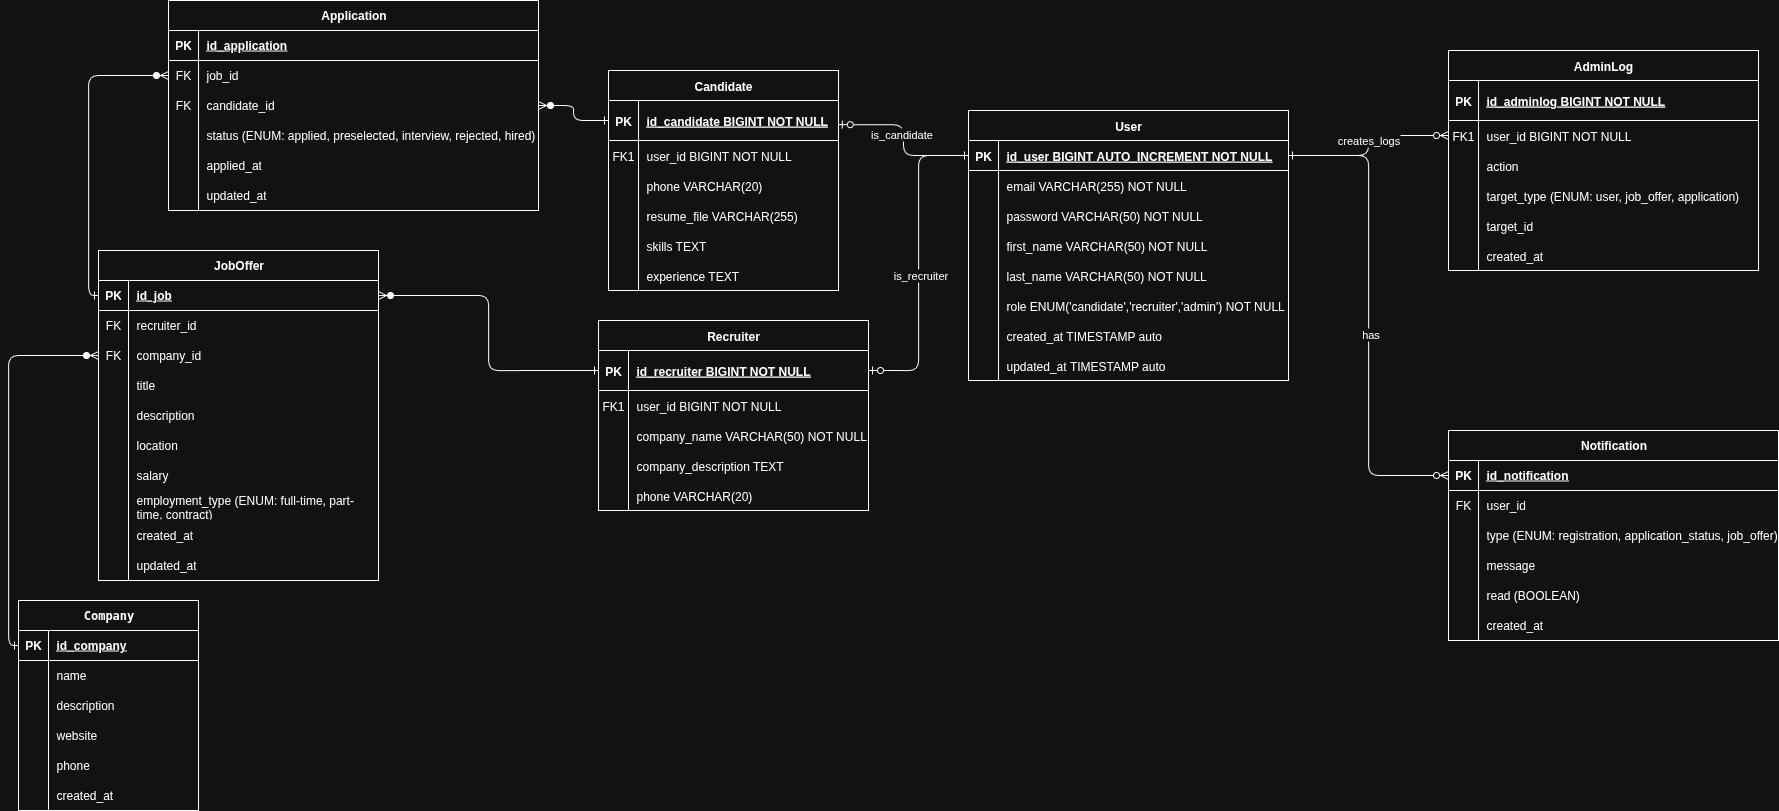
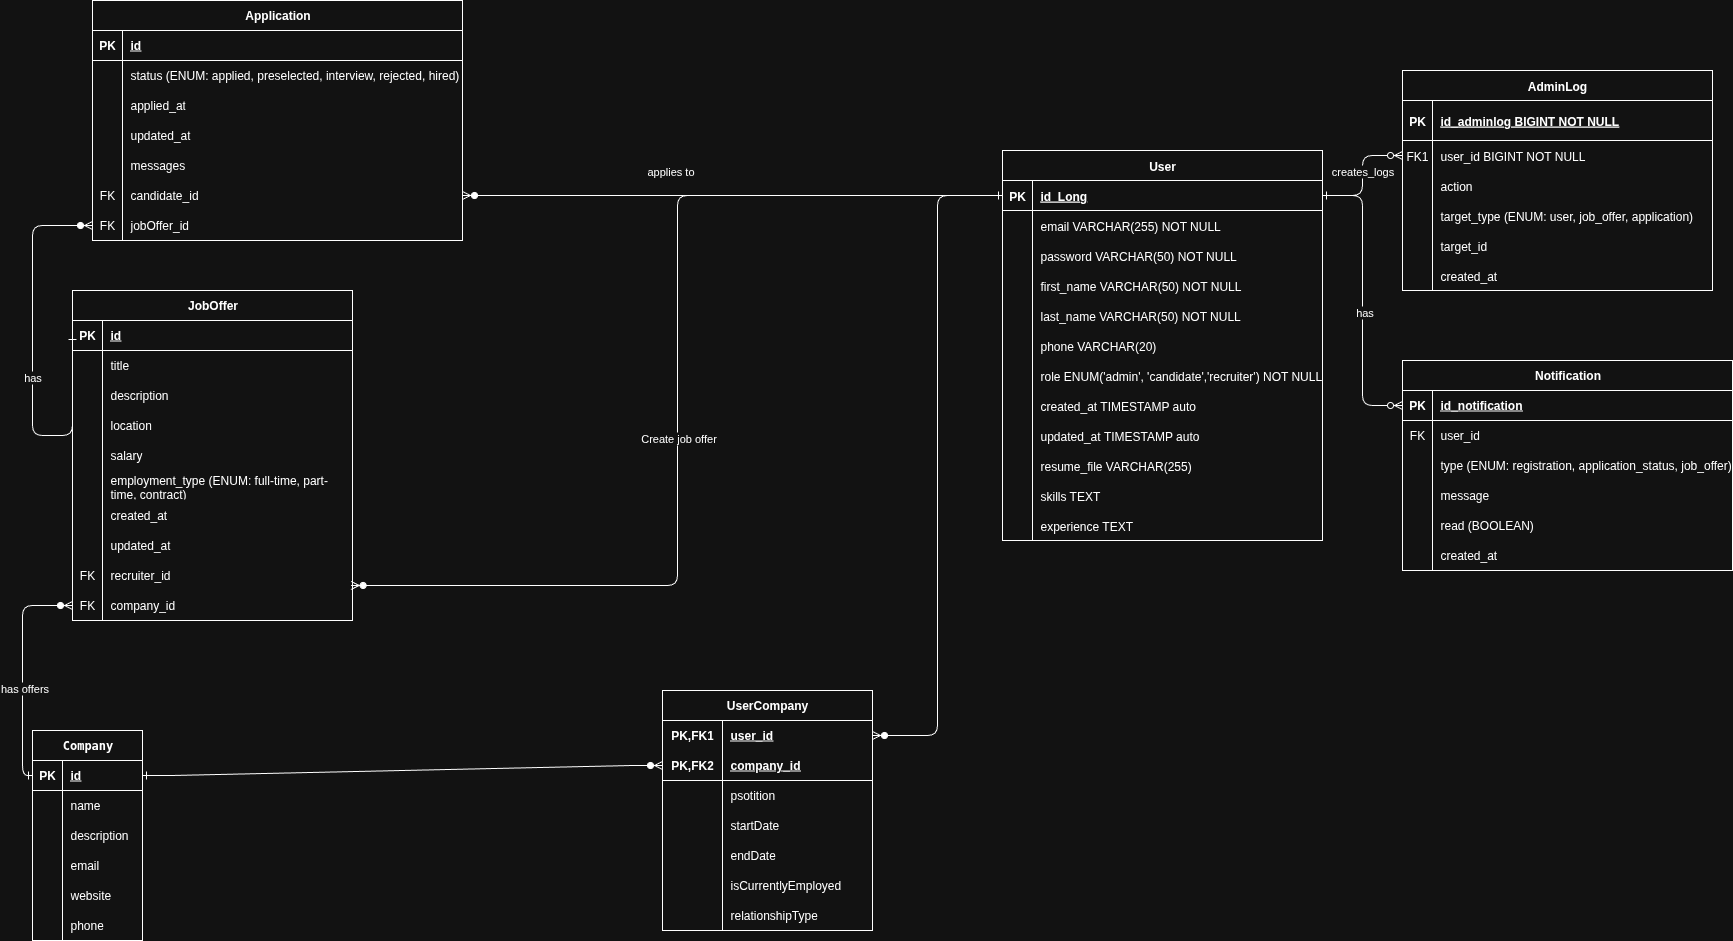
feat: add AdminLog and Notification entities with user relationships
- Create AdminLog entity for tracking administrative actions
- Create Notification entity for user notifications
- Establish proper ManyToOne relationships with User entity
- Add comprehensive English comments for JPA relationships

diff --git a/src/main/java/com/hackathon/recruiting_app_backend/model/AdminLog.java b/src/main/java/com/hackathon/recruiting_app_backend/model/AdminLog.java
@@ -1,0 +1,25 @@
+package com.hackathon.recruiting_app_backend.model;
+
+import jakarta.persistence.*;
+import org.hibernate.annotations.CreationTimestamp;
+
+import java.time.LocalDateTime;
+
+@Entity
+@Table(name = "admin_logs")
+public class AdminLog {
+    @Id
+    @GeneratedValue(strategy = GenerationType.IDENTITY)
+    private Long id;
+
+    @ManyToOne
+    @JoinColumn(name = "user_id") // Admin who performed the action
+    private User admin;  // Each admin log entry is associated with one admin user who perf
+
+    private String action; // CREATE_USER, DELETE_JOB_OFFER, etc.
+    private String targetType; // USER, COMPANY, JOB_OFFER
+    private Long targetId; // ID del recurso afectado
+
+    @CreationTimestamp
+    private LocalDateTime createdAt;
+}

diff --git a/src/main/java/com/hackathon/recruiting_app_backend/model/Notification.java b/src/main/java/com/hackathon/recruiting_app_backend/model/Notification.java
@@ -1,4 +1,25 @@
 package com.hackathon.recruiting_app_backend.model;
 
+import jakarta.persistence.*;
+import org.hibernate.annotations.CreationTimestamp;
+
+import java.time.LocalDateTime;
+
+@Entity
+@Table(name = "notifications")
 public class Notification {
+    @Id
+    @GeneratedValue(strategy = GenerationType.IDENTITY)
+    private Long id;
+
+    @ManyToOne
+    @JoinColumn(name = "user_id") // Target user
+    private User user; // Each notification belongs to one recipient user
+
+    private String title;
+    private String message;
+    private boolean isRead;
+
+    @CreationTimestamp
+    private LocalDateTime createdAt;
 }

diff --git a/src/main/java/com/hackathon/recruiting_app_backend/model/User.java b/src/main/java/com/hackathon/recruiting_app_backend/model/User.java
@@ -16,13 +16,14 @@ import java.util.List;
 
 @Entity
 @Table(name = "users")
-@Inheritance(strategy = InheritanceType.JOINED)
-@DiscriminatorColumn(name = "user_type", discriminatorType = DiscriminatorType.STRING)
+//@Inheritance(strategy = InheritanceType.JOINED)
+//@DiscriminatorColumn(name = "user_type", discriminatorType = DiscriminatorType.STRING)
 @Getter
 @Setter
 @NoArgsConstructor
 @AllArgsConstructor
-@SuperBuilder
+//@SuperBuilder
+@Builder
 public class User {
 
     @Id

diff --git a/src/main/java/com/hackathon/recruiting_app_backend/security/AuthService.java b/src/main/java/com/hackathon/recruiting_app_backend/security/AuthService.java
@@ -53,6 +53,7 @@ public class AuthService {
                 .lastName(request.getLastName())
                 .phone(request.getPhone())
                 .role(User.Role.valueOf(request.getRole()))
+                .experience(request.getExperience())
                 .build();
 
         User savedUser = userRepository.save(user);
